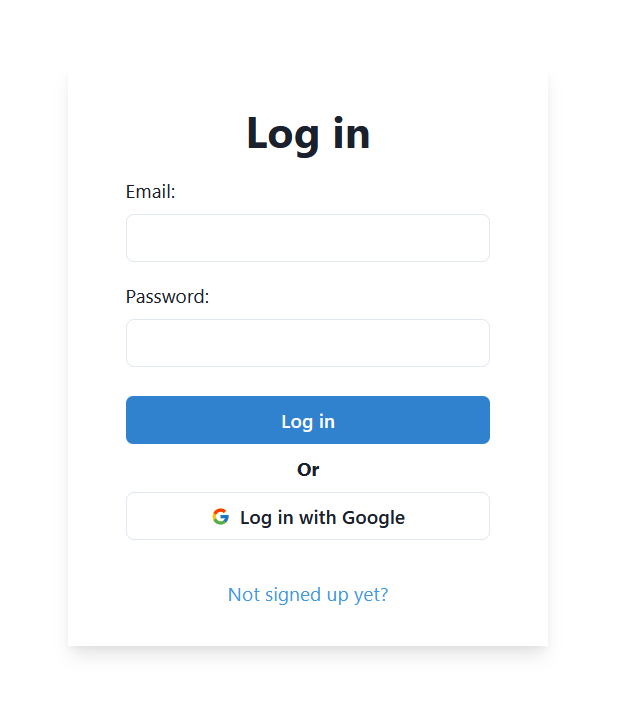
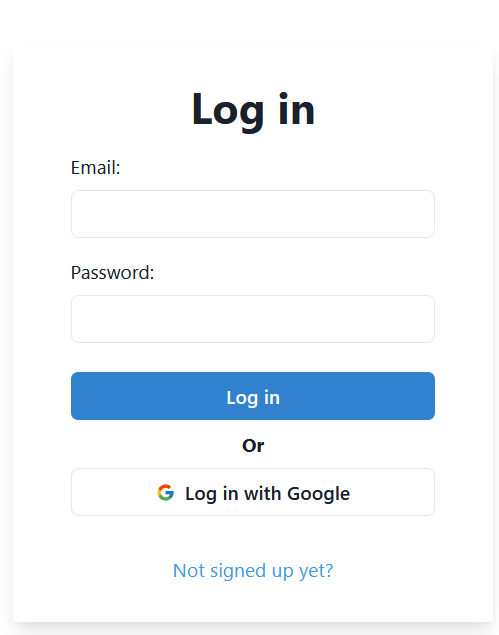
Update README.md

diff --git a/README.md b/README.md
@@ -27,7 +27,7 @@ The frontend is run as an Single Page Application (SPA) on the user's browser an
 - 🔐 Log in using Google or user/email combination.
 
 <p align="center">
-  <img src="images/login.png" width="500px" />
+  <img src="images/login.png" width="400px" />
 </p>
 
 
@@ -105,5 +105,7 @@ Check the following tables for further understanding of the available API endpoi
 | `/my-games/<id>` | PUT    | Update tracking data of a specific game. |
 | `/my-games/<id>` | DELETE | Delete a game from your list.            |
 
+## License
 
+Distributed under the MIT License. See [License](LICENSE).
 
